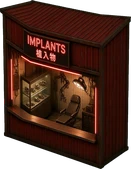
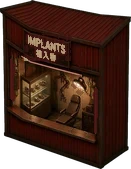
China Lake : cl_stand_implants sans néon (enseigne IMPLANTS / 植入物 peinte sur tôle rouge, tubes et lueur retirés), taille, pivot et emprise conservés

diff --git a/tools_chinalake.py b/tools_chinalake.py
@@ -20,7 +20,7 @@ LT = {
  'cl_pilotis': ('gen_cl_pilotis.jpg', [6.0, 6.0], 4.5, 'module de structure sur pilotis 6 m (plateforme, garde-corps, caisses, filets pliés, lanterne)'),
  'cl_cabane': ('gen_cl_cabane2.jpg', [8.0, 6.0], 3.5, 'Les Filets, cabane sur pilotis, toit simple, FILETS 渔网'),
  'cl_ponton': ('gen_cl_ponton.jpg', [5.0, 3.0], 3.5, 'Ponton de Shen, stand du technicien au bord de l eau, ordinateurs, pièces, RÉPARATIONS 修理'),
- 'cl_stand_implants': ('gen_cl_stand_implants3.jpg', [2.5, 1.0], 2.6, 'stand illégal, quai nord : implants piratés, kiosque fermé en tôle rouge sang-de-bœuf, toit plat, néon rouge, vitrine et fauteuil chirurgical, IMPLANTS 植入物'),
+ 'cl_stand_implants': ('gen_cl_stand_implants3.jpg', [2.5, 1.0], 2.6, 'stand illégal, quai nord : implants piratés, kiosque fermé en tôle rouge sang-de-bœuf, toit plat, enseigne peinte sans néon, vitrine et fauteuil chirurgical, IMPLANTS 植入物'),
  'cl_stand_puces': ('gen_cl_stand_puces3.jpg', [2.5, 1.0], 2.6, 'stand illégal, quai nord : puces, charrette à roues sous ombrelle ronde moutarde, bacs de puces, cuivre, moniteur, PUCES 芯片'),
  'cl_stand_armes': ('gen_cl_stand_armes3.jpg', [2.5, 1.5], 2.6, 'stand illégal, quai est : armes, ARMES 武器'),
  'cl_stand_papiers': ('gen_cl_stand_papiers2.jpg', [2.5, 1.5], 2.4, 'stand illégal (guichet), quai sud : faux papiers, PAPIERS 证件'),
@@ -219,3 +219,45 @@ def build_eau(src='gen_cl_eau_src2.jpg', off=256, gain=1.25, band=96):
     q = np.asarray(out).astype(float); seam = float(np.abs(q[:, 0] - q[:, -1]).mean() + np.abs(q[0] - q[-1]).mean()) / 2
     inner = float(np.abs(np.diff(q, axis=1)).mean()); print('g_cl_eau', out.size, 'raccord', round(seam, 2), 'voisins', round(inner, 2))
     return seam, inner
+
+
+# ---- retouche 2026-10-28 : cl_stand_implants sans néon (direction artistique : le kiosque à implants n a pas de néon) ----
+# Post-traitement du sprite final (taille, alpha, pivot inchangés) : lettres IMPLANTS / 植入物 repeintes crème mat sur panneau tôle rouge sombre,
+# tubes néon des montants -> tôle rouge du kiosque, tube au-dessus de la vitrine éteint (rouge plafonné, assombri). À relancer après build('cl_stand_implants').
+def unneon_implants():
+    from scipy import ndimage
+    P = A + 'cl_stand_implants.webp'
+    a=np.asarray(Image.open(P)).astype(float);o=a.copy()
+    r,g,b,al=a[...,0],a[...,1],a[...,2],a[...,3]
+    sat=r-np.maximum(g,b);op=al>0
+    H,W=r.shape;yy,xx=np.mgrid[:H,:W]
+    lum=(r+g+b)/3;tex=np.clip(lum/255,0,1)[...,None]
+    # sign panel (incl. old black backplate) -> dark red corrugated metal with painted cream letters
+    sign=(xx>=24)&(xx<=70)&(yy>=34)&(yy<=60)&op
+    panel=(xx>=23)&(xx<=70)&(yy>=29)&(yy<=60)&op
+    letters=sign&(r>120)&(sat>40)
+    letters=ndimage.binary_opening(letters,np.ones((1,1)))
+    stripe=0.85+0.15*((xx//2)%2)[...,None]  # vertical corrugation
+    metal_sign=np.array([70,22,19.])*stripe
+    w_sign=np.clip((sat-12)/30,0,1)*sign  # red glow/halo pixels on sign
+    o[...,:3]=np.where(w_sign[...,None]>0,a[...,:3]*(1-w_sign[...,None])+metal_sign*w_sign[...,None],o[...,:3])
+    o[...,:3]=np.where(letters[...,None],np.array([182,156,118.])*(0.8+0.25*np.clip((r[...,None]-120)/135,0,1)),o[...,:3])
+    # tubes + halo elsewhere -> booth metal
+    core=(r>140)&(sat>65)&op&~panel
+    reg=ndimage.binary_dilation(core,iterations=1)
+    w=np.clip((sat-30)/40,0,1)*reg
+    ring=ndimage.binary_dilation(core,iterations=4)&~reg&op&~panel
+    p=o[...,:3];cap=np.maximum(p[...,1],p[...,2])*1.35+8  # residual red glow: cap red to a warm-neutral
+    p[...,0]=np.where(ring,np.minimum(p[...,0],cap),p[...,0])
+    metal=np.array([78,24,20.])*(0.8+0.4*tex)
+    # tube lying over the window: unlit = red capped to the warm neutral + darkened (no lit glow), on the frame: booth metal
+    onframe=(xx<=16)|(xx>=93)
+    w=w*onframe
+    o[...,:3]=o[...,:3]*(1-w[...,None])+metal*w[...,None]
+    q=o[...,:3];inner=reg&~onframe
+    for c in (0,1,2): q[...,c]=np.where(inner,q[...,c]*0.7,q[...,c])
+    q[...,0]=np.where(inner,np.minimum(q[...,0],np.maximum(q[...,1],q[...,2])*1.6+10),q[...,0])
+    dark=sign&~letters&(lum<75)&~(w_sign>0)
+    o[...,:3]=np.where(dark[...,None],o[...,:3]*0.3+metal_sign*0.7,o[...,:3])
+    o[...,3]=al
+    Image.fromarray(np.clip(o,0,255).astype('uint8'),'RGBA').save(P,quality=90)

diff --git a/docs/ASSETS_CATALOGUE.md b/docs/ASSETS_CATALOGUE.md
@@ -342,4 +342,6 @@ Sources : `PLAN_IMPLEMENTATION.md` §3, fiche `CHINA_LAKE.md` §2-§7, planches 
 Sol : `assets/generated/g_cl_eau.webp`, même convention que `g_wet` / `g_sv` (512² RGB, `loadSkins`, `ground.skin`), non branché (src/ intouché). Maquette réutilisée : `cl_pieux_b` (bitte d amarrage, `utility-v9.png`) ; le reste de la maquette (sacs de sable, gravats, mobilier de jour) ne correspond pas au marché d eau. Réserves : ballons, pieux, déchets et mah-jong non cisaillés (flottants / ronds / décalques / table en plongée), judge refusé ou non significatif ; emprises des stands 2,5 × 1,5 et de 4 bâtiments différentes du plan (cf. rapport) ; `cl_cabane` arête droite 0,50.
 
 
-China Lake — retouche 2026-10-28 : `cl_stand_implants` (kiosque fermé en tôle rouge sang-de-bœuf, toit plat, néon rouge, vitrine et fauteuil chirurgical) et `cl_stand_puces` (charrette à roues sous ombrelle ronde moutarde, bacs de puces, cuivre) régénérés pour des silhouettes, couleurs et marchandises distinctes ; emprise 2,5 × 1 et pivot x 103 conservés, sans miroir ; `g_cl_eau` régénéré (lac urbain stagnant, plus de lecture de canal).
+China Lake — retouche 2026-10-28 : `cl_stand_implants` (kiosque fermé en tôle rouge sang-de-bœuf, toit plat, enseigne peinte sans néon depuis la retouche suivante, vitrine et fauteuil chirurgical) et `cl_stand_puces` (charrette à roues sous ombrelle ronde moutarde, bacs de puces, cuivre) régénérés pour des silhouettes, couleurs et marchandises distinctes ; emprise 2,5 × 1 et pivot x 103 conservés, sans miroir ; `g_cl_eau` régénéré (lac urbain stagnant, plus de lecture de canal).
+
+China Lake — retouche 2026-10-28 (bis) : `cl_stand_implants` sans néon (direction artistique) : lueur et tubes néon retirés, enseigne IMPLANTS / 植入物 en lettres peintes crème mat sur panneau en tôle rouge sombre, montants en tôle du kiosque ; 131×169, pivot [103, 168], emprise 2,5 × 1 et alpha inchangés (`tools_chinalake.unneon_implants`). judge accepté (pente 0,30), 0 pixel néon rouge (666 avant), ni bleu ni cyan ni violet ni rose.
